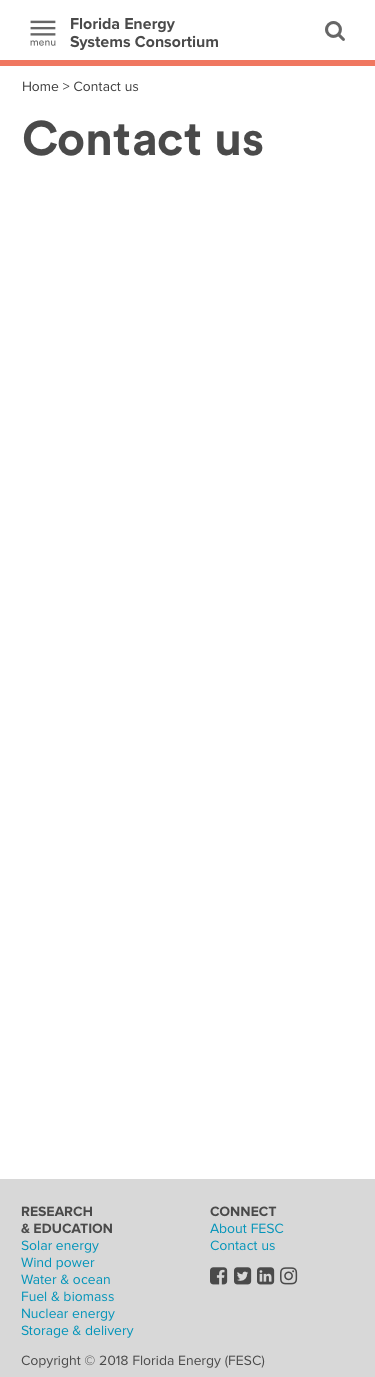
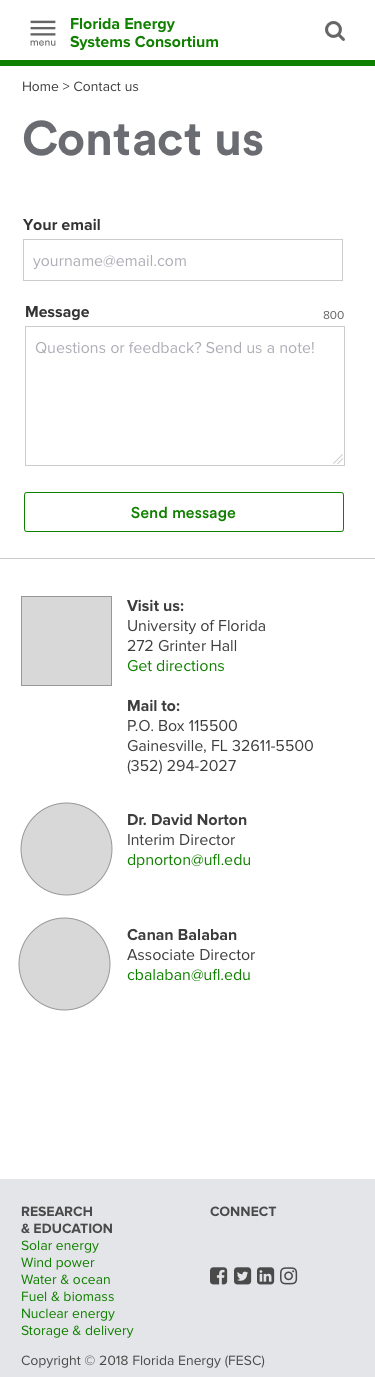
added form and contact cards to contact.html

diff --git a/contact.html b/contact.html
@@ -59,7 +59,7 @@
   <!--Responsive nav with dropdown-->
     <nav>
       <div class="topnav" id="mainNav">
-        <a href="index.html"><img src="images/fesc-logo.png" alt="florida energy systems consortium"></a>
+        <a href="index.html"><img src="images/fesc-logo-130x29.png" alt="florida energy systems consortium"></a>
         <div class="dropdown">
           <button class="dropbtn">Energy systems 
             <i class="fa fa-caret-down"></i>
@@ -89,10 +89,50 @@
         </div>
       </header>
       
-      <!--To do: Filters and sorts-->
+      <!--Contact Form-->
+      <form>
+        <div>
+          <label>Your email</label>
+          <input type="email" placeholder="name@example.com">
+        </div>
+        <div>
+          <label>Message</label>
+          <textarea rows="3" placeholder="Questions or feedback? Drop us a note!"></textarea>
+        </div>
+        <button type="submit">Send message</button>
+      </form>
+      <!--Address, directions, and phone #-->
+      <section>
+        <img src="images/fesc-map-300x307.png">
+        <h5>Visit us:</h5>
+        <address>
+          University of Florida<br>
+          272 Grinter Hall<br>
+          <a href="">Get directions</a>
+        </address>
 
-      <!--To do: Content section with research, events, articles, businesses-->
+        <h5>Mail to:</h5>
+        <address>
+          P.O. Box 115500<br>
+          Gainesville, FL 32611-5500<br>
+          (352) 294-2027
+        </address>
       
+        <div id="contact-card">
+          <img src="images/David-Norton-200x230.jpg">
+          <h5>Dr. David Norton</h5>
+          <p>Interim Director, FESC</p>
+          <a href="mailto:dpnorton@ufl.edu">dpnorton@ufl.edu</a>
+        </div>
+        
+        <div id="contact-card">
+          <img src="images/Canan-Balaban-200x230.jpg">
+          <h5>Canan Balaban</h5>
+          <p>Associate Director, FESC</p>
+          <a href="mailto:cbalaban@ufl.edu">cbalaban@ufl.edu</a>
+        </div>
+
+      </section>
       <!--Footer-->
       <footer>
         <div class="container">

diff --git a/wind.html b/wind.html
@@ -59,7 +59,7 @@
     <!--Responsive nav with dropdown-->
     <nav>
       <div class="topnav" id="mainNav">
-        <a href="index.html"><img src="images/fesc-logo.png" alt="florida energy systems consortium"></a>
+        <a href="index.html"><img src="images/fesc-logo-130x29.png" alt="florida energy systems consortium"></a>
         <div class="dropdown">
           <button class="dropbtn">Energy systems 
             <i class="fa fa-caret-down"></i>

diff --git a/about.html b/about.html
@@ -59,7 +59,7 @@
   <!--Responsive nav with dropdown-->
     <nav>
       <div class="topnav" id="mainNav">
-        <a href="index.html"><img src="images/fesc-logo.png" alt="florida energy systems consortium"></a>
+        <a href="index.html"><img src="images/fesc-logo-130x29.png" alt="florida energy systems consortium"></a>
         <div class="dropdown">
           <button class="dropbtn">Energy systems 
             <i class="fa fa-caret-down"></i>

diff --git a/fuel.html b/fuel.html
@@ -59,7 +59,7 @@
   <!--Responsive nav with dropdown-->
     <nav>
       <div class="topnav" id="mainNav">
-        <a href="index.html"><img src="images/fesc-logo.png" alt="florida energy systems consortium"></a>
+        <a href="index.html"><img src="images/fesc-logo-130x29.png" alt="florida energy systems consortium"></a>
         <div class="dropdown">
           <button class="dropbtn">Energy systems 
             <i class="fa fa-caret-down"></i>

diff --git a/index.html b/index.html
@@ -60,7 +60,7 @@
   <!--Responsive nav with dropdown-->
     <nav>
       <div class="topnav" id="mainNav">
-        <a href="index.html"><img src="images/fesc-logo.png" alt="florida energy systems consortium"></a>
+        <a href="index.html"><img src="images/fesc-logo-130x29.png" alt="florida energy systems consortium"></a>
         <div class="dropdown">
           <button class="dropbtn">Energy systems 
             <i class="fa fa-caret-down"></i>

diff --git a/nuclear.html b/nuclear.html
@@ -59,7 +59,7 @@
   <!--Responsive nav with dropdown-->
     <nav>
       <div class="topnav" id="mainNav">
-        <a href="index.html"><img src="images/fesc-logo.png" alt="florida energy systems consortium"></a>
+        <a href="index.html"><img src="images/fesc-logo-130x29.png" alt="florida energy systems consortium"></a>
         <div class="dropdown">
           <button class="dropbtn">Energy systems 
             <i class="fa fa-caret-down"></i>

diff --git a/solar.html b/solar.html
@@ -59,7 +59,7 @@
   <!--Responsive nav with dropdown-->
     <nav>
       <div class="topnav" id="mainNav">
-        <a href="index.html"><img src="images/fesc-logo.png" alt="florida energy systems consortium"></a>
+        <a href="index.html"><img src="images/fesc-logo-130x29.png" alt="florida energy systems consortium"></a>
         <div class="dropdown">
           <button class="dropbtn">Energy systems 
             <i class="fa fa-caret-down"></i>

diff --git a/storage.html b/storage.html
@@ -59,7 +59,7 @@
   <!--Responsive nav with dropdown-->
     <nav>
       <div class="topnav" id="mainNav">
-        <a href="index.html"><img src="images/fesc-logo.png" alt="florida energy systems consortium"></a>
+        <a href="index.html"><img src="images/fesc-logo-130x29.png" alt="florida energy systems consortium"></a>
         <div class="dropdown">
           <button class="dropbtn">Energy systems 
             <i class="fa fa-caret-down"></i>

diff --git a/water.html b/water.html
@@ -59,7 +59,7 @@
   <!--Responsive nav with dropdown-->
     <nav>
       <div class="topnav" id="mainNav">
-        <a href="index.html"><img src="images/fesc-logo.png" alt="florida energy systems consortium"></a>
+        <a href="index.html"><img src="images/fesc-logo-130x29.png" alt="florida energy systems consortium"></a>
         <div class="dropdown">
           <button class="dropbtn">Energy systems 
             <i class="fa fa-caret-down"></i>

diff --git a/docs/README.md b/docs/README.md
@@ -124,5 +124,44 @@ Address accessibility issues  | Implement minimum requirements on website to mee
 Improve performance | Improve page load speed to meet mobile and industry averages (3 seconds and 8 seconds respectively)
 Fix functional issues | Fix images, links, and buttons that don't work as expected
 
+## FONT, COLOR, AND LAYOUT
+
+**Website teardowns and inspiration**
+Green struck me as the appropriate color to lead with for the identity of the site because it has a strong association with nature. I looked to prominent energy brands to confirm my suspicions (green or blue feature prominently on most) and a few non-energy sites that incorporate the color green nicely into their identity.
+
+Sites reviewed:
+- [Energy Star](https://www.energystar.gov/)
+- [Dept of Energy](https://www.energy.gov/)
+- [National Renewable Energy Laboratory](https://www.nrel.gov/)
+- [Institute for Energy Research](https://instituteforenergyresearch.org/)
+- [Puget Sound Energy](https://pse.com/Pages/default.aspx)
+- [John Deere](https://www.deere.com/en/)
+- [Houzz.com](https://www.houzz.com/)
+- [Quickbooks](https://quickbooks.intuit.com/)
+
+**Design system favorite**
+- [Quickbooks](https://designsystem.quickbooks.com/foundations/color-palette/) 
+
+**FESC Style Guide**
+
+[Style Guide](https://trinasch.github.io/florida-energy/docs/styleguide.html)
+
+As a result, I developed a simple style guide for Florida Energy Systems Consortium. It features green as primary and blue as secondary color on a white background, with shades of gray available for most other things. The fonts I selected are sans serif to achieve an authoritative and approachable style.
+
+**FESC Website Layouts**
+
+[FESC Layouts](https://github.com/trinasch/florida-energy/tree/master/docs/mocks)
+
+I've mocked up layouts for the following pages: 
+- Homepage
+- Find Research page
+- Solar Energy page
+- About page
+- Contact page
+
+I also assembled the structured content for the About page and Solar Energy page in .js files, so that I can populate the modules on each respective page.
+
+Since the top navigation and footer appear on all pages, those are also candidates for a modular approach.
+
 
 
